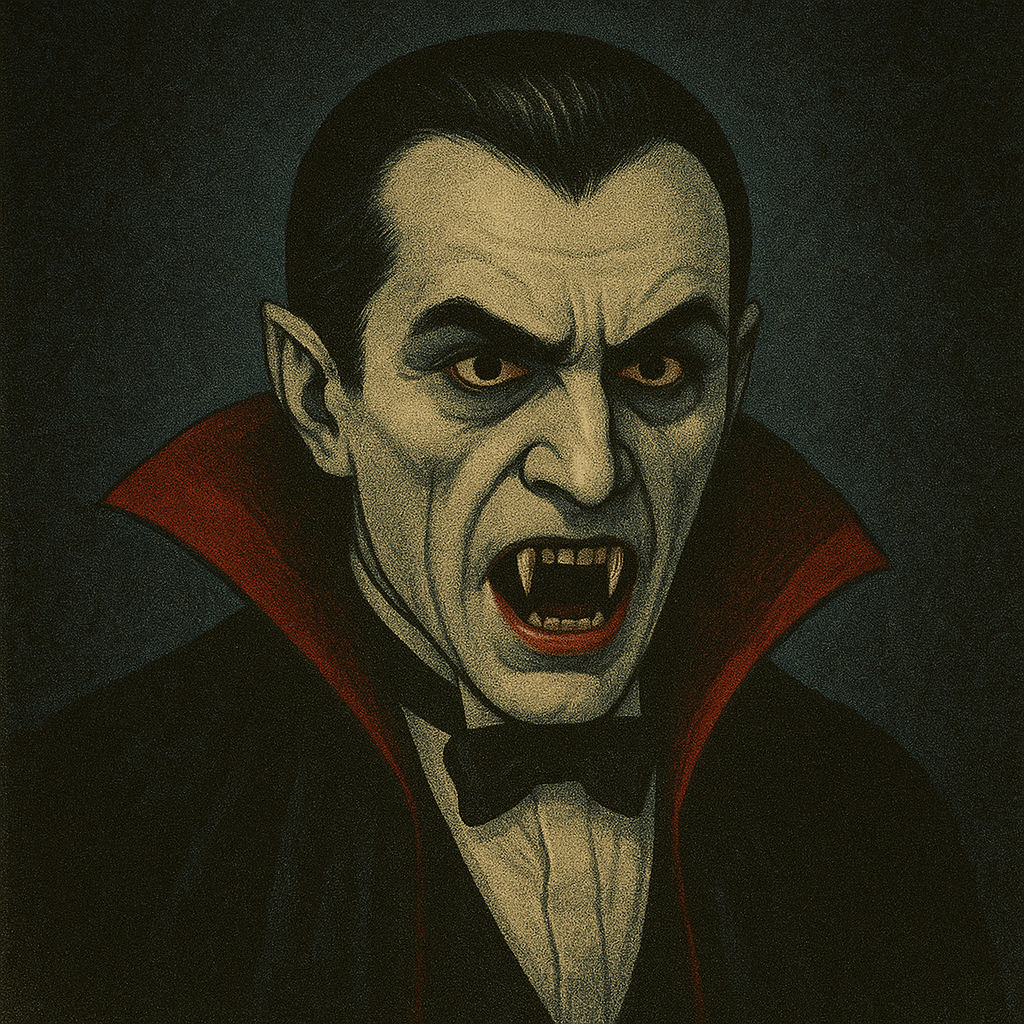
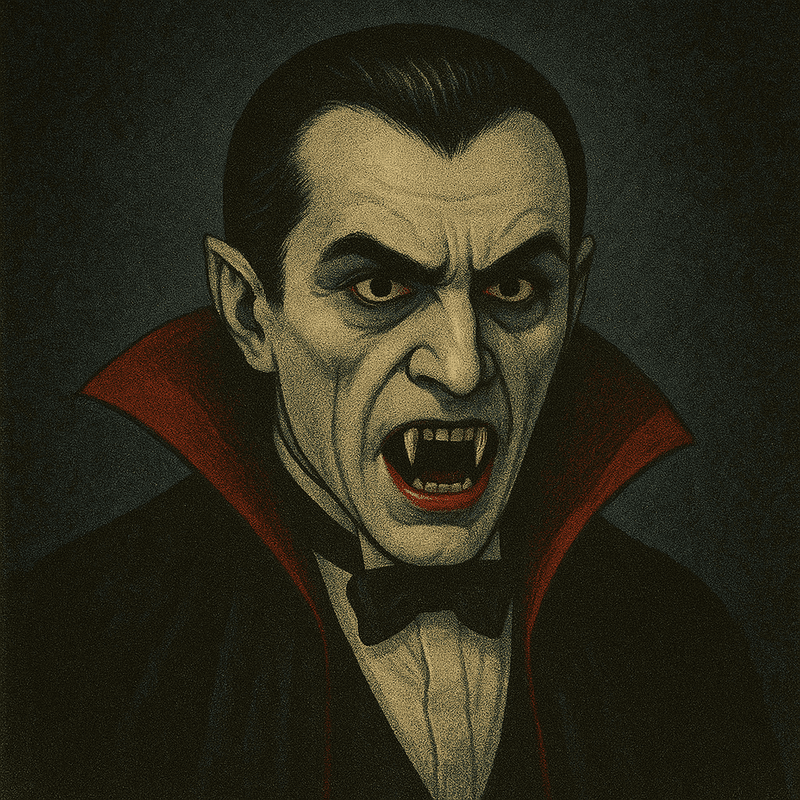
Optimize images and improve loading performance
- Reduce image sizes from 42MB to 7.8MB (81.5% reduction)
- Optimize background image: 2.6MB to 484KB
- Optimize ghost images: avg 2.4MB to 340KB each
- Optimize question images: avg 2MB to 470KB each
- Add priority loading to critical images
- Add quality optimization to Next.js Image components
- Fix menu ghost card layout and sizing

Changed region(s): [[0.5938, 0.9062, 0.625, 0.9375], [0.5, 0.5938, 0.5312, 0.625]]

diff --git a/app/menu/page.tsx b/app/menu/page.tsx
@@ -98,17 +98,19 @@ export default function MenuPage() {
           </h1>
         </div>
 
-        {/* Ghost Display Section - Square 1:1 Ratio */}
+        {/* Ghost Display Section */}
         <div className="shrink-0 flex justify-center w-full">
-          <div className="w-full max-w-[240px] sm:max-w-[280px] md:max-w-[340px] lg:max-w-[340px] aspect-square bg-halloween-charcoal/90 border-2 border-halloween-orange rounded-lg flex flex-col items-center justify-center p-3 sm:p-4 md:p-6 lg:p-5">
+          <div className="w-full max-w-[240px] sm:max-w-[280px] md:max-w-[340px] lg:max-w-[340px] bg-halloween-charcoal/90 border-2 border-halloween-orange rounded-lg flex flex-col items-center justify-center p-3 sm:p-4 md:p-6 lg:p-5">
             {/* Ghost Image */}
-            <div className="flex-1 flex items-center justify-center mb-2 sm:mb-3">
+            <div className="w-full flex items-center justify-center mb-2 sm:mb-3 pt-2 sm:pt-3">
               <Image
                 src={userData.ghost_result ? ghostImages[userData.ghost_result] : defaultGhostImage}
                 alt={userData.ghost_result || 'Mystery Ghost'}
-                width={280}
-                height={280}
-                className="rounded-lg w-full h-auto object-contain"
+                width={200}
+                height={200}
+                className="rounded-lg w-32 h-32 sm:w-40 sm:h-40 md:w-48 md:h-48 object-contain"
+                priority
+                quality={85}
               />
             </div>
 

diff --git a/app/image-preloader.tsx b/app/image-preloader.tsx
@@ -1,0 +1,48 @@
+'use client';
+
+import { useEffect } from 'react';
+
+// Preload images to improve loading performance
+export function useImagePreloader(imageUrls: string[]) {
+  useEffect(() => {
+    imageUrls.forEach((url) => {
+      const img = new Image();
+      img.src = url;
+    });
+  }, [imageUrls]);
+}
+
+// Preload all ghost images
+export function preloadGhostImages() {
+  const ghostImages = [
+    '/ghosts/ผีนางรำ.png',
+    '/ghosts/ผีแม่นาค.png',
+    '/ghosts/แวมไพร์.png',
+    '/ghosts/ซอมบี้.png',
+    '/ghosts/ผีญี่ปุ่นคอยาว.png',
+    '/ghosts/ผีปอบ.png',
+    '/ghosts/zatan.png',
+    '/ghosts/default.png',
+  ];
+
+  ghostImages.forEach((url) => {
+    const link = document.createElement('link');
+    link.rel = 'preload';
+    link.as = 'image';
+    link.href = url;
+    document.head.appendChild(link);
+  });
+}
+
+// Preload all question images
+export function preloadQuestionImages() {
+  const questionImages = Array.from({ length: 10 }, (_, i) => `/questions/q${i + 1}.png`);
+
+  questionImages.forEach((url) => {
+    const link = document.createElement('link');
+    link.rel = 'preload';
+    link.as = 'image';
+    link.href = url;
+    document.head.appendChild(link);
+  });
+}

diff --git a/app/what-ghost/page.tsx b/app/what-ghost/page.tsx
@@ -357,6 +357,8 @@ export default function WhatGhostPage() {
                       width={200}
                       height={200}
                       className="rounded-lg w-32 h-32 sm:w-[200px] sm:h-[200px]"
+                      priority
+                      quality={85}
                     />
                   </div>
                 )}
@@ -435,6 +437,8 @@ export default function WhatGhostPage() {
                       height={360}
                       sizes="(max-width: 640px) 100vw, 564px"
                       className="rounded-lg w-full max-h-40 sm:max-h-64 object-contain"
+                      priority={currentQuestion === 0}
+                      quality={85}
                     />
                   </div>
                 )}
